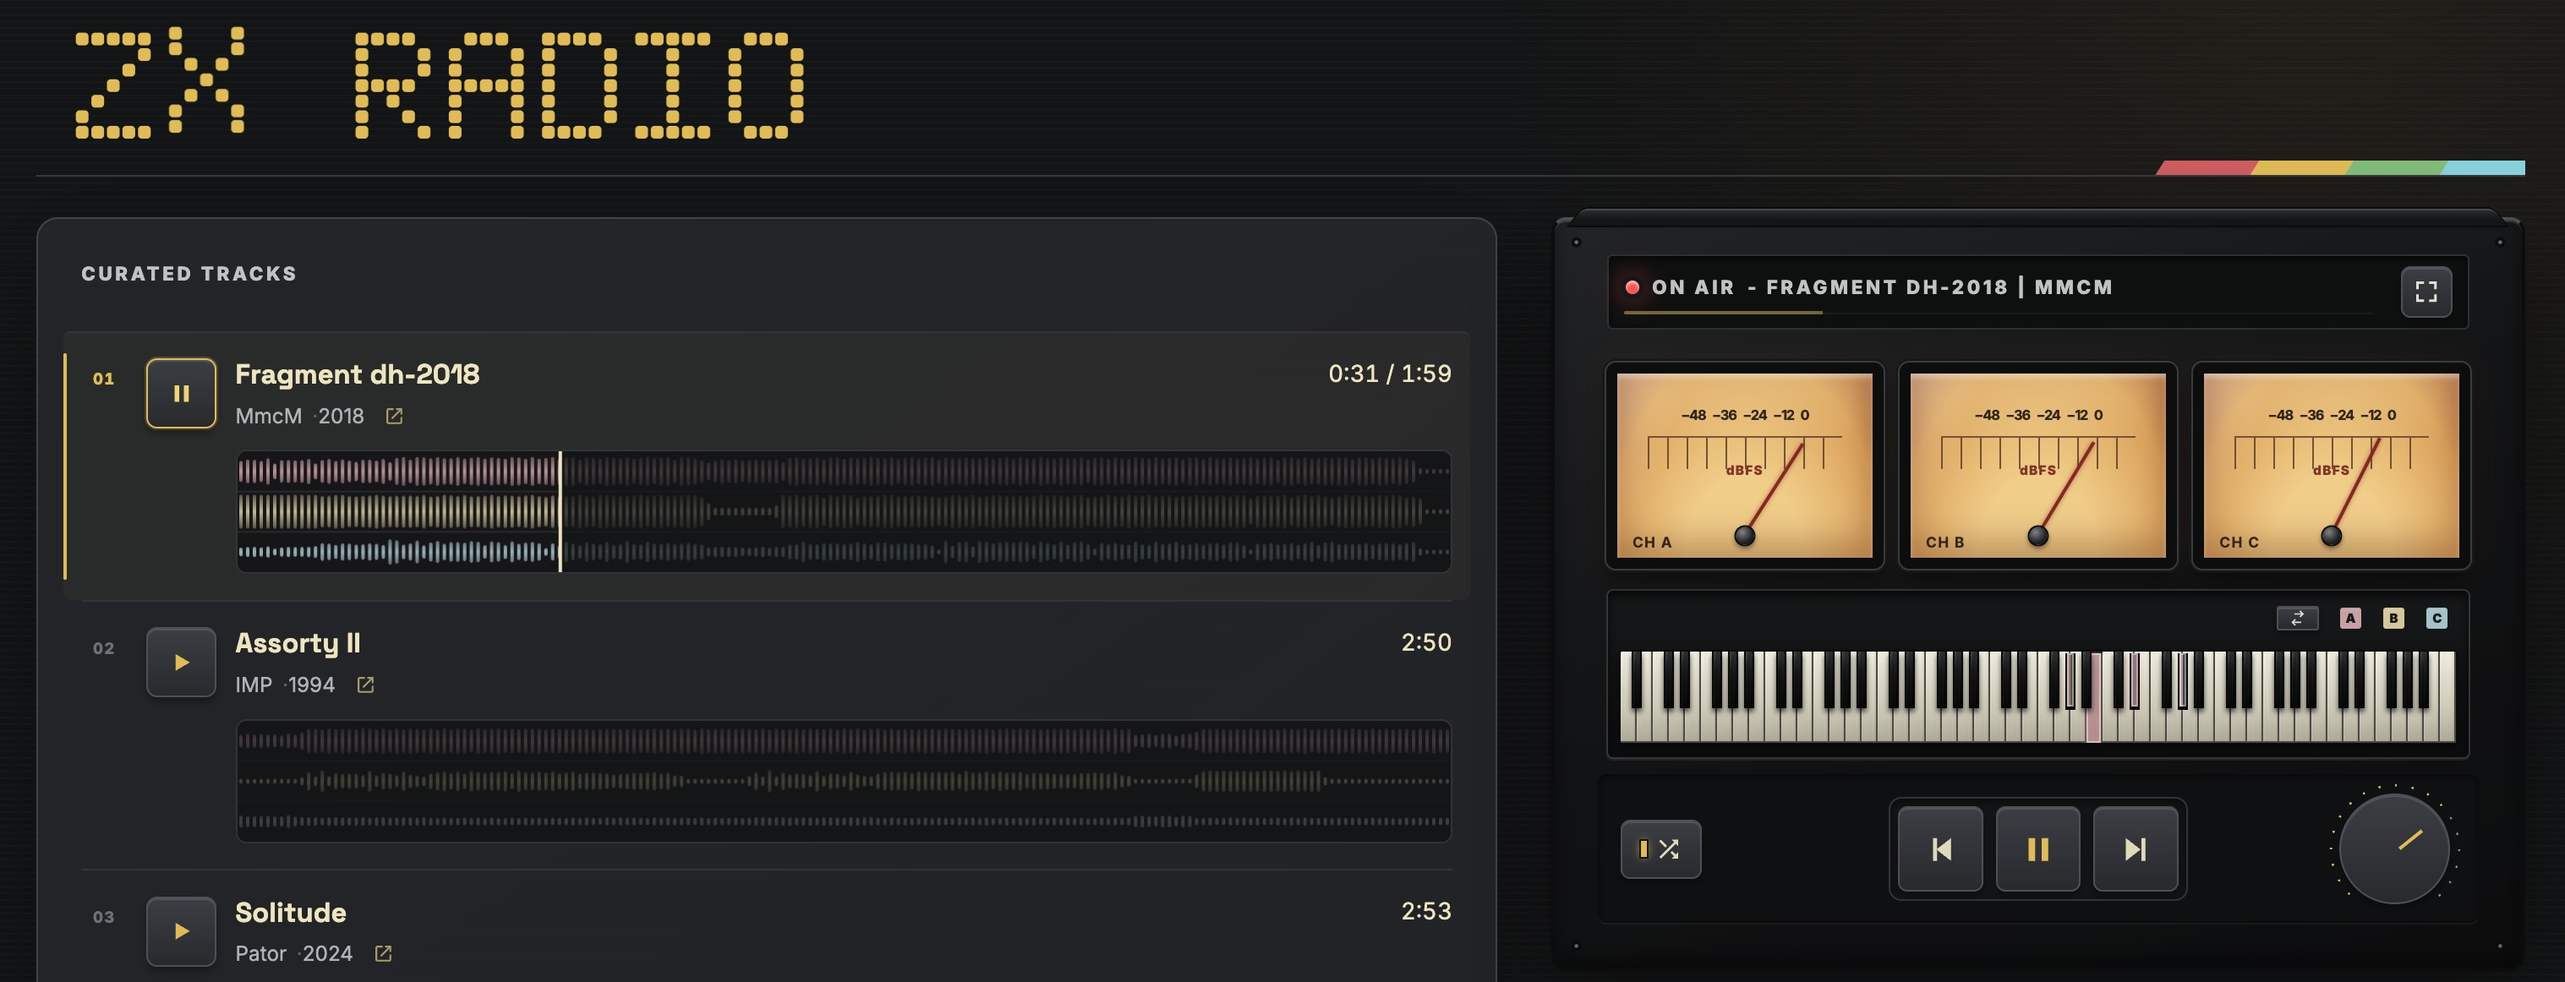
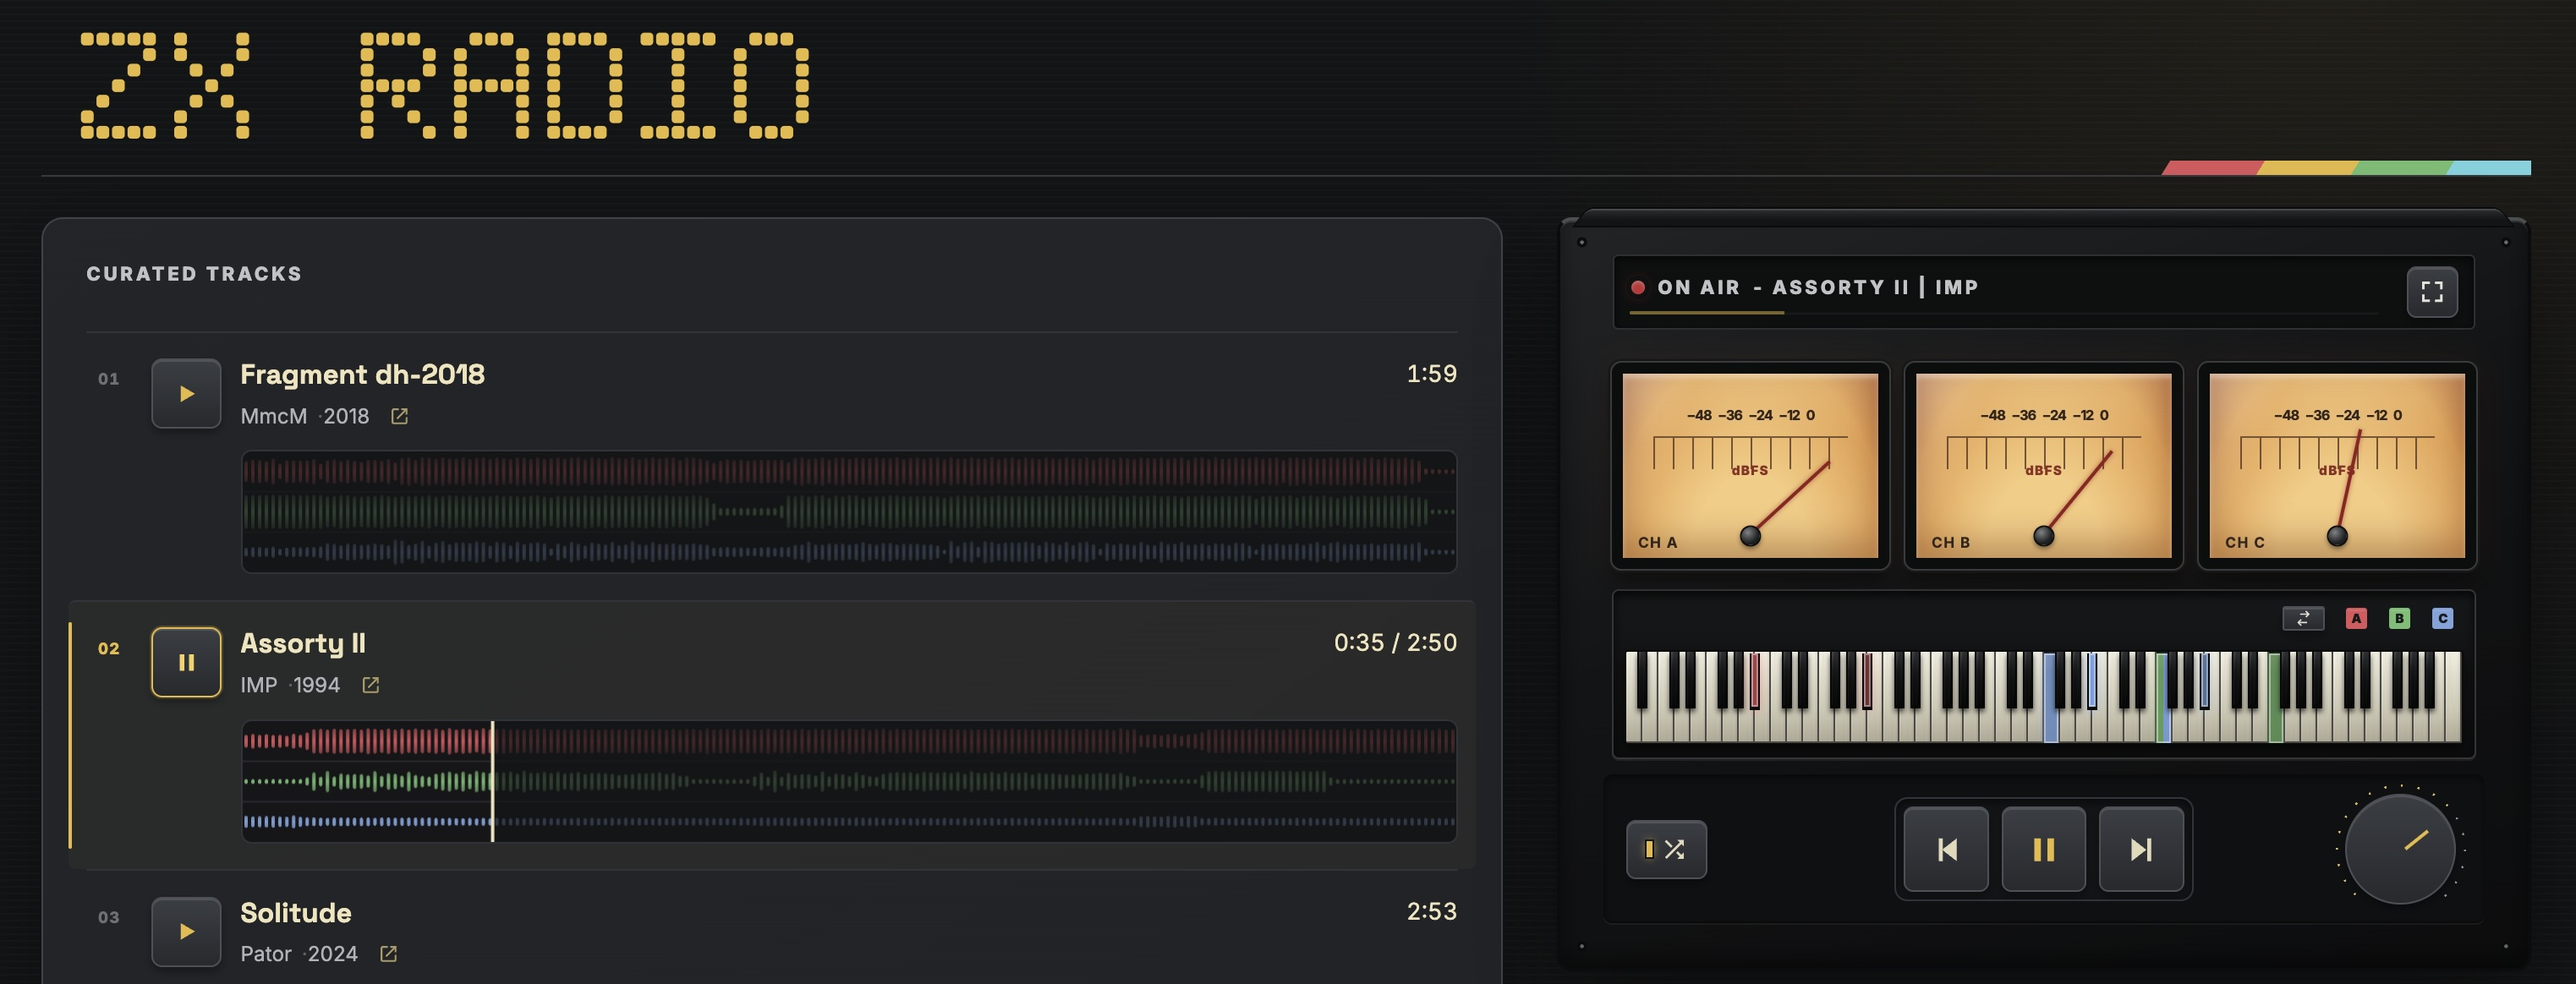
Improved colors

diff --git a/src/app/PianoKeyboard.test.tsx b/src/app/PianoKeyboard.test.tsx
@@ -48,6 +48,24 @@ describe('PianoKeyboard', () => {
     expect(pianoKeys.filter(({ black }) => black)).toHaveLength(36);
   });
 
+  it('uses distinct red, green, and blue keyboard channel controls', () => {
+    render(<PianoKeyboard adapter={undefined} playing={false} />);
+
+    for (const [channel, color] of [
+      ['A', '#f15b68'],
+      ['B', '#6bc77d'],
+      ['C', '#7fafe3'],
+    ] as const) {
+      const badge = screen
+        .getByRole('button', { name: `Channel ${channel} on keyboard` })
+        .querySelector('span');
+      expect(badge).toHaveStyle({
+        background: color,
+        borderColor: color,
+      });
+    }
+  });
+
   it('splits shared notes by channel and ignores out-of-range activity', () => {
     let nextFrame: FrameRequestCallback | undefined;
     vi.spyOn(window, 'requestAnimationFrame').mockImplementation((callback) => {

diff --git a/src/app/WaveformSeek.test.tsx b/src/app/WaveformSeek.test.tsx
@@ -137,15 +137,15 @@ describe('WaveformSeek', () => {
 
     expect(createLinearGradient).toHaveBeenCalledTimes(3);
     expect(addColorStop.mock.calls).toEqual([
-      [0, '#dca6ad66'],
-      [0.5, '#dca6ade6'],
-      [1, '#dca6ad66'],
-      [0, '#dfcda266'],
-      [0.5, '#dfcda2e6'],
-      [1, '#dfcda266'],
-      [0, '#9fcbd066'],
-      [0.5, '#9fcbd0e6'],
-      [1, '#9fcbd066'],
+      [0, '#f15b687a'],
+      [0.5, '#f15b68f2'],
+      [1, '#f15b687a'],
+      [0, '#6bc77d7a'],
+      [0.5, '#6bc77df2'],
+      [1, '#6bc77d7a'],
+      [0, '#7fafe37a'],
+      [0.5, '#7fafe3f2'],
+      [1, '#7fafe37a'],
     ]);
   });
 

diff --git a/src/app/WaveformSeek.tsx b/src/app/WaveformSeek.tsx
@@ -29,8 +29,8 @@ const waveformPalette = {
 const CHANNELS = ['A', 'B', 'C'] as const;
 const BAR_PITCH_CSS_PX = 4;
 const BAR_WIDTH_CSS_PX = 2;
-const BAR_END_ALPHA_HEX = '66';
-const BAR_CENTER_ALPHA_HEX = 'e6';
+const BAR_END_ALPHA_HEX = '7a';
+const BAR_CENTER_ALPHA_HEX = 'f2';
 
 // The subset of the 2D context that lane drawing needs, so the same routine can
 // target the visible canvas or an offscreen cache.

diff --git a/src/app/channelPalette.ts b/src/app/channelPalette.ts
@@ -1,7 +1,7 @@
 import type { ChannelId } from '../playback/contracts.ts';
 
 export const channelPalette: Readonly<Record<ChannelId, string>> = {
-  A: '#dca6ad',
-  B: '#dfcda2',
-  C: '#9fcbd0',
+  A: '#f15b68',
+  B: '#6bc77d',
+  C: '#7fafe3',
 };
